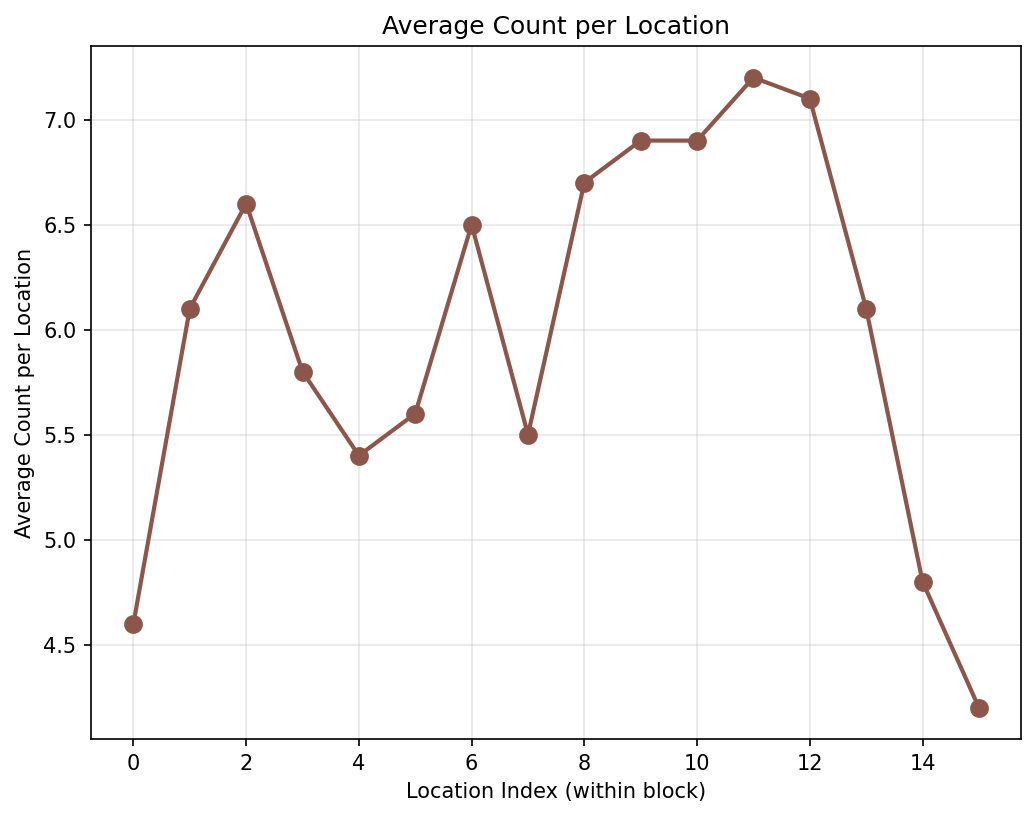
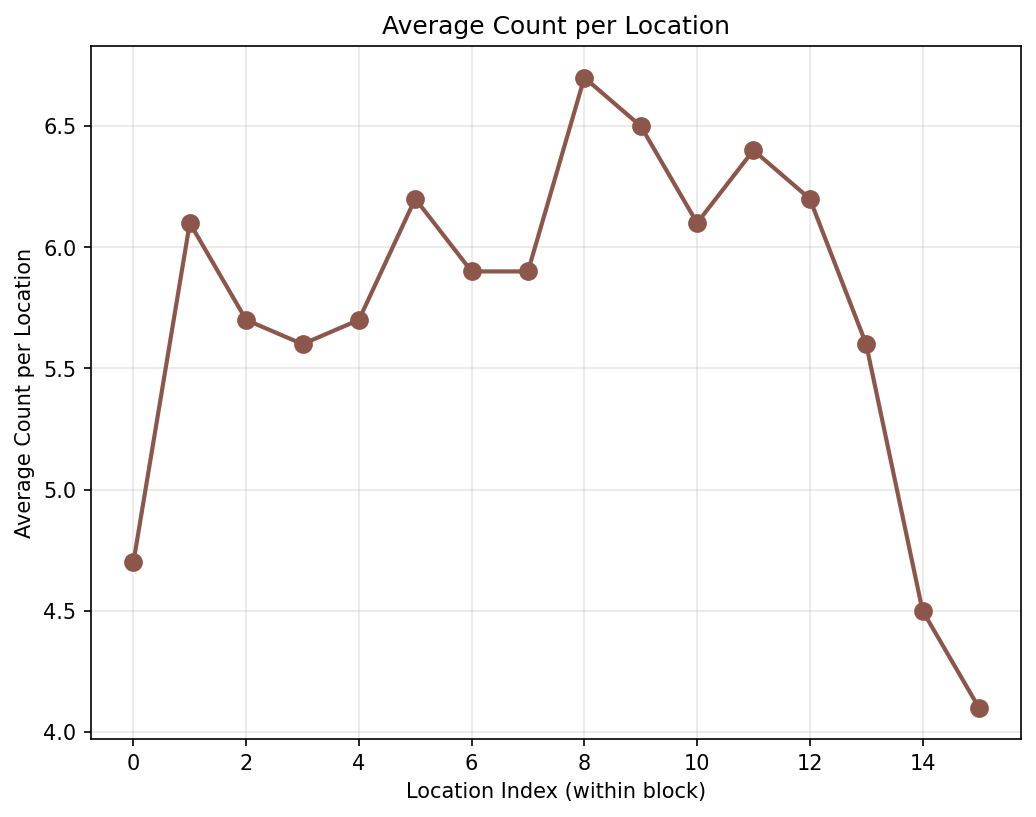
Fix attention scaling to 1.0/sqrt for Grid-trained checkpoints, add new plots folders

diff --git a/next_num_statistics_loadcheckpoint.py b/next_num_statistics_loadcheckpoint.py
@@ -4,7 +4,7 @@ import numpy as np
 from checkpoint_utils import load_checkpoint
 
 # Load model using load_checkpoint
-checkpoint_path = os.path.join(os.getcwd(), 'Grid_training_without_duplicates/Final_N256_K16_L2_H1_E32_r8over1_npos1_mlp1_dup0_testK16_iters60000.pt')
+checkpoint_path = os.path.join(os.getcwd(), 'Grid_training_without_duplicates/Final_N128_K16_L2_H1_E32_r4over1_npos1_mlp1_dup0_testK16_iters60000.pt')
 device = 'cuda'
 model, config = load_checkpoint(checkpoint_path, device=device)
 
@@ -144,7 +144,7 @@ def get_statistics(thresholds, threshold_index):
     return count_perlocation, count_perthreshold, (clogit_cscore_perlocation, clogit_icscore_perlocation, iclogit_cscore_perlocation, iclogit_icscore_perlocation), (clogit_cscore_perthreshold, clogit_icscore_perthreshold, iclogit_cscore_perthreshold, iclogit_icscore_perthreshold), (average_dist_perlocation, max_dist_perlocation), (average_dist_perthreshold, max_dist_perthreshold)
 
 
-thresholds = [0.01, 0.05, 0.1, 0.15, 0.2]
+thresholds = [0.01, 0.05, 0.1, 0.15]#, 0.2]
 threshold_index = 0
 num_tries = 10
 ave_clogit_cscore_perthreshold = np.zeros(len(thresholds))

diff --git a/model_tbyt_3_withnormalization.py b/model_tbyt_3_withnormalization.py
@@ -39,6 +39,7 @@ class CausalSelfAttention(nn.Module):
         v = v.view(B, T, self.n_heads, self.head_dim).transpose(1, 2)
 
         # Manual attention computation to store weights
+        # Grid training uses F.scaled_dot_product_attention which uses standard 1.0 / sqrt(head_dim)
         scale = 1.0 / math.sqrt(self.head_dim)
         attn = (q @ k.transpose(-2, -1)) * scale
         
@@ -79,8 +80,8 @@ class Block(nn.Module):
             x = x + self.attn(self.ln_1(x))
         if self.mlp is not None:
             if layer_n == 0:
-                pass
-                #x = x + self.mlp(self.ln_2(x))
+                #pass
+                x = x + self.mlp(self.ln_2(x))
             else:
                 x = x + self.mlp(self.ln_2(x))
         return x

diff --git a/intervention/test_intervention_batch_normalized.py b/intervention/test_intervention_batch_normalized.py
@@ -12,7 +12,7 @@ from checkpoint_utils import load_checkpoint
 from gpt_intervention_normalized import GPTInterventionNormalized
 
 # Load model using load_checkpoint
-checkpoint_path = os.path.join(os.path.dirname(__file__), '../Grid_training_without_duplicates/Final_N256_K16_L2_H1_E32_r8over1_npos1_mlp1_dup0_testK16_iters60000.pt')
+checkpoint_path = os.path.join(os.path.dirname(__file__), '../Grid_training_without_duplicates/Final_N128_K16_L2_H1_E64_r2over1_npos1_mlp1_dup0_testK16_iters60000.pt')
 device = 'cuda'
 model, config = load_checkpoint(checkpoint_path, device=device)
 model.eval()
